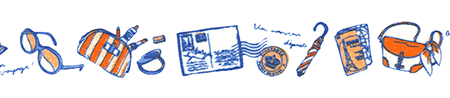
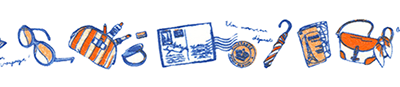
width...

diff --git a/css/main.css b/css/main.css
@@ -13,9 +13,6 @@ h1, h2, h3, h4, h5, h6 {
 	font-weight: 300;
 }
 
-.logo {
-	max-width: 30%;
-}
 /* ======== TOP MENU ======== */
 
 .main-menu {
@@ -78,6 +75,11 @@ span {
 
 /* ======== MAIN CONTENT ========== */
 
+
+.logo {
+	max-width: 50%;
+}
+
 .main {
 	display: block;
 	margin: 0 auto;
@@ -88,13 +90,13 @@ span {
 a.tape-link {
 	display: block;
 	margin:0 auto;
-	max-width: 30%;
+	width: 30%;
 }
 
 img.tape {
 	margin-top: 10px;
 	padding: 0;
-	max-width: 30%;
+	width: 30%;
 }
 
 .tapes {
